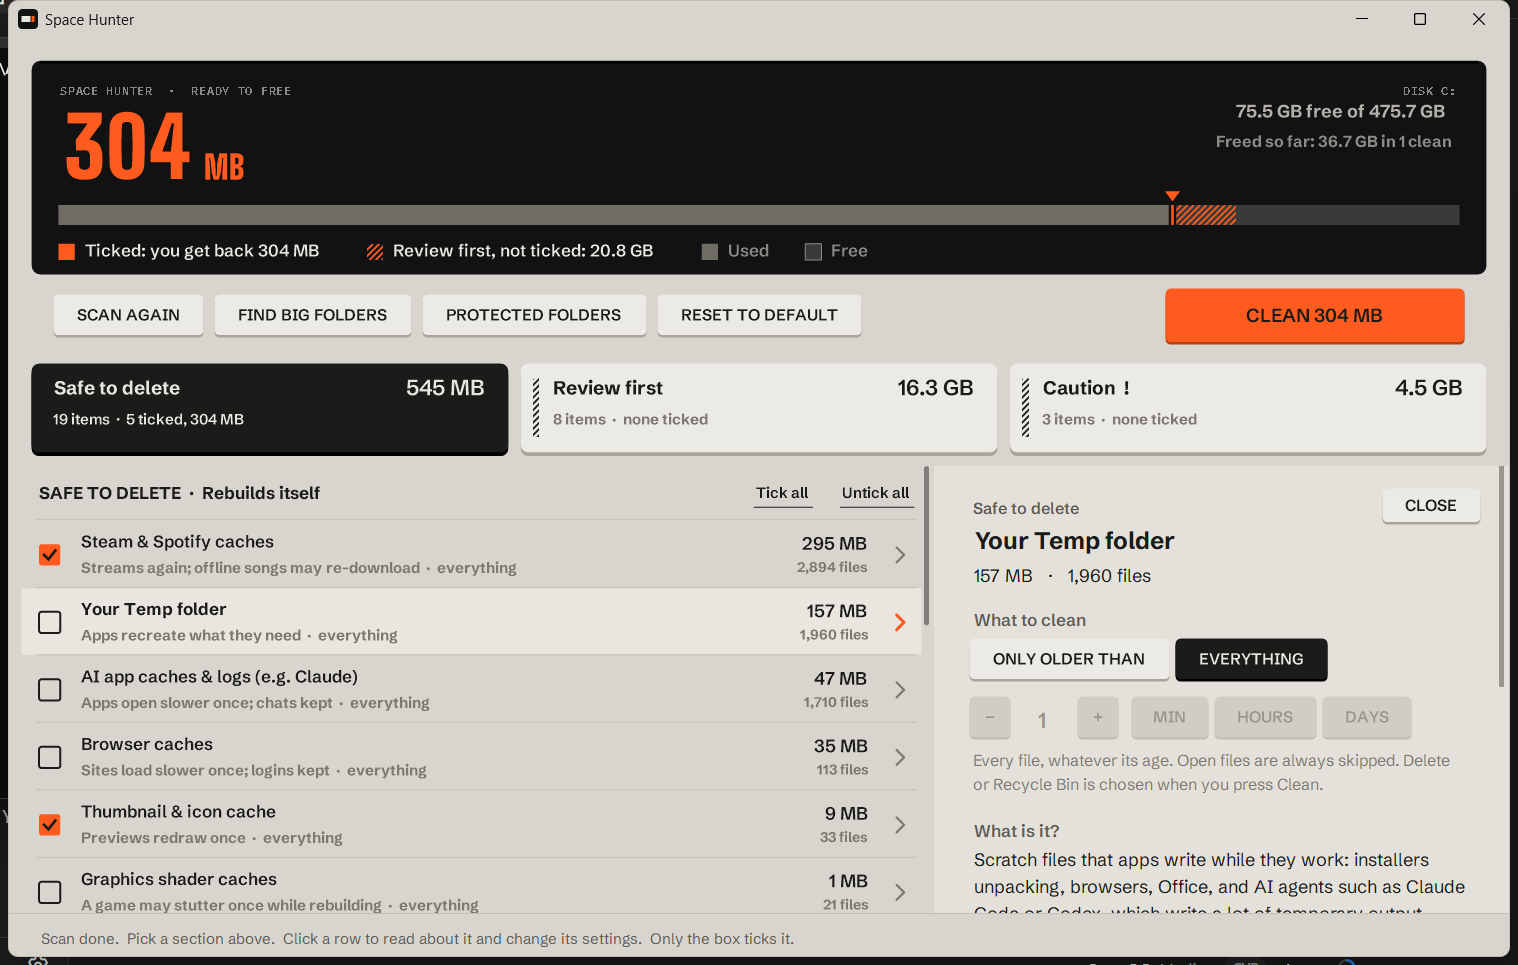
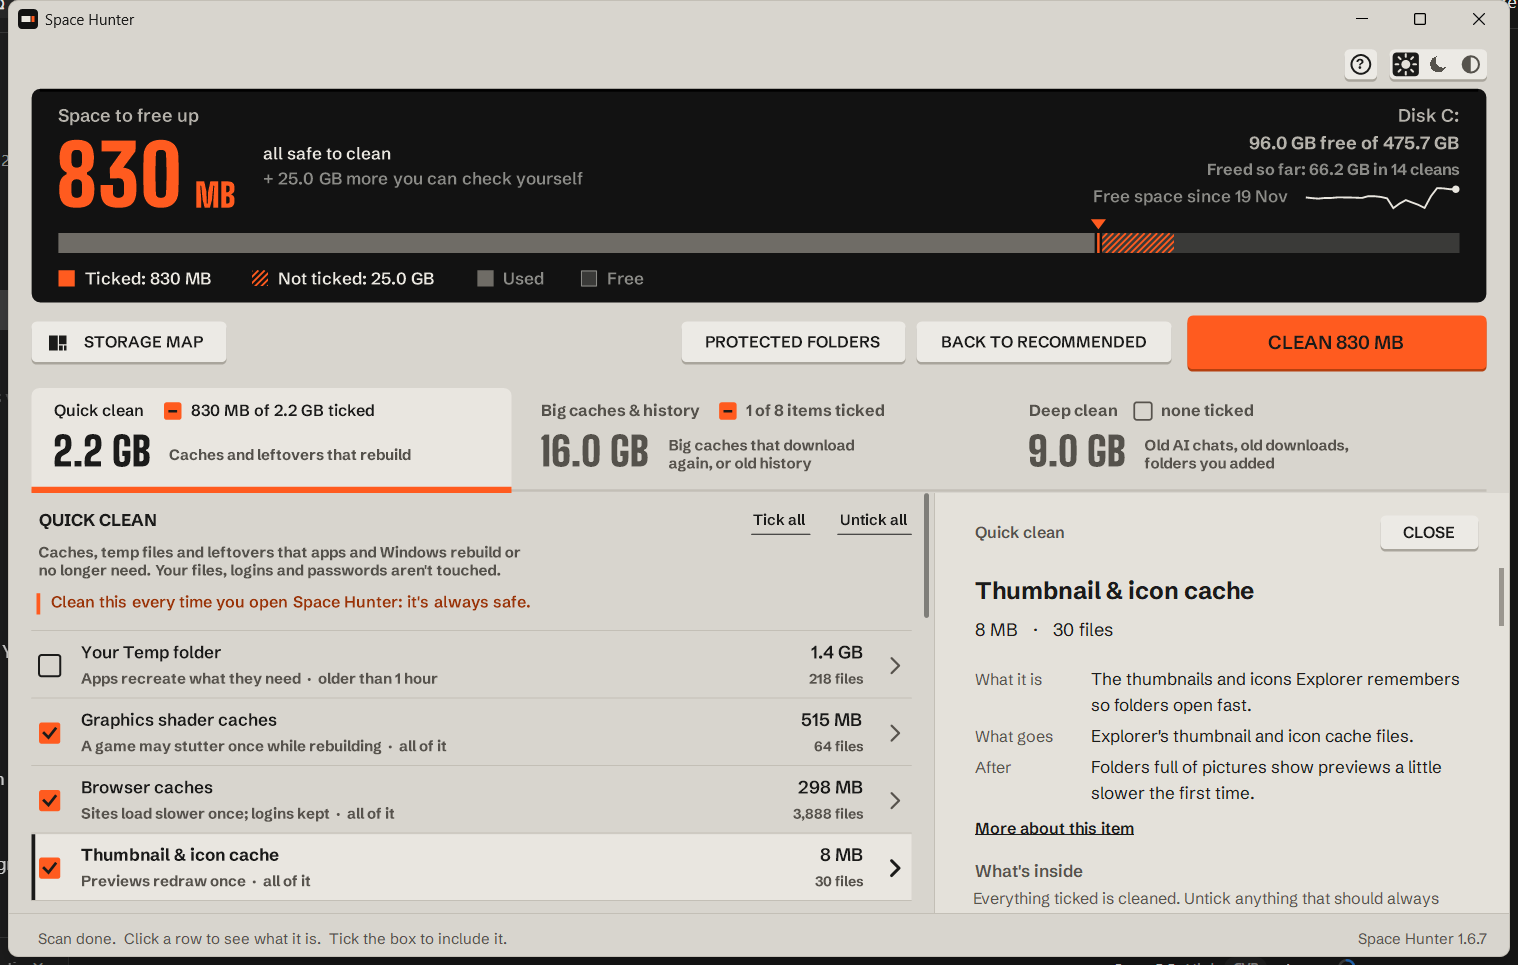
1.6.7: version, changelog, README wording and Windows screenshots; map caption says dashed outline

diff --git a/mac/Sources/SpaceHunter.swift b/mac/Sources/SpaceHunter.swift
@@ -3689,7 +3689,7 @@ struct TreeMap: View {
             let b = bs[h]
             return b.name + "  ·  " + Engine.fmt(b.size) + (b.marked ? "  ·  part of it is already a cleanup item" : "") + (!(b.node?.kids.isEmpty ?? true) ? "  ·  click to go inside" : "")
         }
-        return "Click a block to go inside it  ·  orange corner: part of it is already a cleanup item" + (free > 0 ? "  ·  hatched: free space" : "")
+        return "Click a block to go inside it  ·  orange corner: part of it is already a cleanup item" + (free > 0 ? "  ·  dashed outline: free space" : "")
     }
 
     var body: some View {

diff --git a/windows/src/Finder.cs b/windows/src/Finder.cs
@@ -533,7 +533,7 @@ namespace SpaceHunter
                 }
             }
             if (blocks.Count == 0) return;   // nothing to explain until the chart is there
-            string cap = "Click a block to go inside it  ·  orange corner: part of it is already a cleanup item" + (free > 0 ? "  ·  hatched: free space" : "");
+            string cap = "Click a block to go inside it  ·  orange corner: part of it is already a cleanup item" + (free > 0 ? "  ·  dashed outline: free space" : "");
             if (hover >= 0) { var hb = blocks[hover]; cap = hb.Name + "  ·  " + Engine.Fmt(hb.Size) + (hb.Marked ? "  ·  part of it is already a cleanup item" : "") + (CanOpen(hb) ? "  ·  click to go inside" : ""); }
             using (var br = new SolidBrush(Theme.Muted))
                 g.DrawString(cap, fCap, br, new RectangleF(20, LH - Caption + 4, LW - 40, 16), nowrap);

diff --git a/CHANGELOG.md b/CHANGELOG.md
@@ -3,6 +3,20 @@
 All notable changes to Space Hunter. Versions follow [semantic versioning](https://semver.org): the last number is
 for fixes, the middle number is for new features, and the first number is for big changes.
 
+## 1.6.7 (2026-11-24)
+
+- **While the scan runs, the display says how far it has got.** Beside the number it now reads "measuring every item",
+  with a small turning ring and "31 of 34 items" underneath, on the same edge as the "all safe to clean" text that
+  takes its place, so nothing jumps when the scan ends.
+- **Dark mode keeps the display apart.** The window around it is a lighter warm grey, and the display has a thin edge.
+- **Orange is kept for what you get back:** the number, the disk bar, the ticks and Clean. The Storage map key, the
+  update key and Add folder are plain keys now, and the Protected folders count is set in the display's own white.
+- **Clearer words.** "Default cleanup" is now **Back to recommended**. A section whose ticked items come to less than
+  1 MB says "1 of 8 items ticked" instead of "0 MB ticked", and a tiny size shows as 1 KB, never 0 KB.
+- The row whose panel is open is marked with a dark edge (Windows and Mac). The Storage map says "used on C:" over its
+  number and draws free space as a dashed outline (hatching only ever means "not ticked"). The Protected folders list
+  has a line under each entry, and the first-run guide is one step shorter.
+
 ## 1.6.6 (2026-11-23)
 
 - **Windows: the count starts moving as soon as you press Clean.** Emptying the Recycle Bin used to wait for Windows to

diff --git a/README.md b/README.md
@@ -54,7 +54,7 @@ The same app on Linux (and on Mac), with the same names, look and features:
 
 Light, dark, or follow the system: the three small keys at the top right. The first time you open it, a short
 guide walks through everything that matters, one part of the window at a time; the **?** key beside them shows it
-again. **Default cleanup** puts the ticks and ages back to the first-time setup and measures everything afresh.
+again. **Back to recommended** puts the ticks and ages back to the first-time setup and measures everything afresh.
 
 ## Safe by design
 
